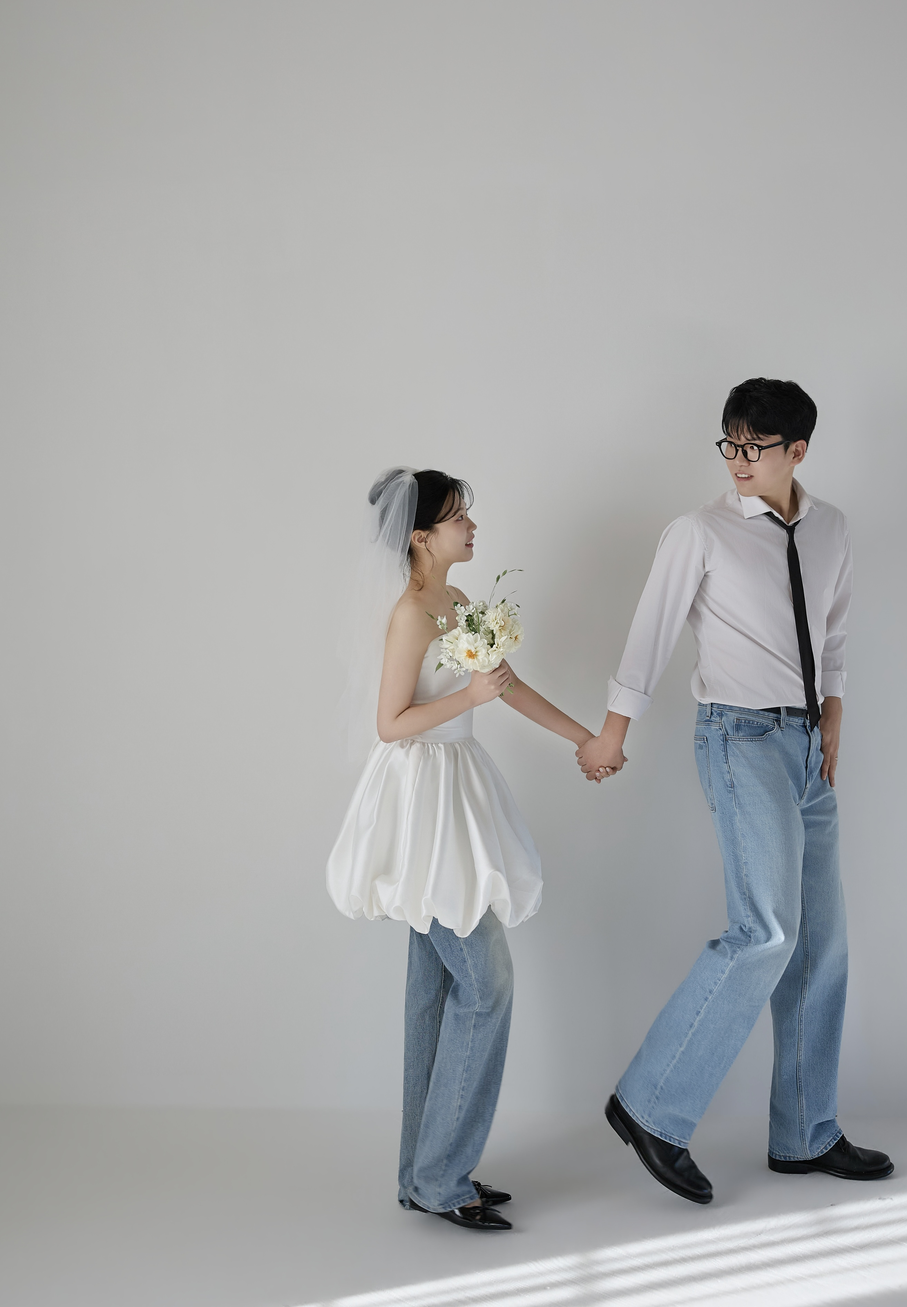
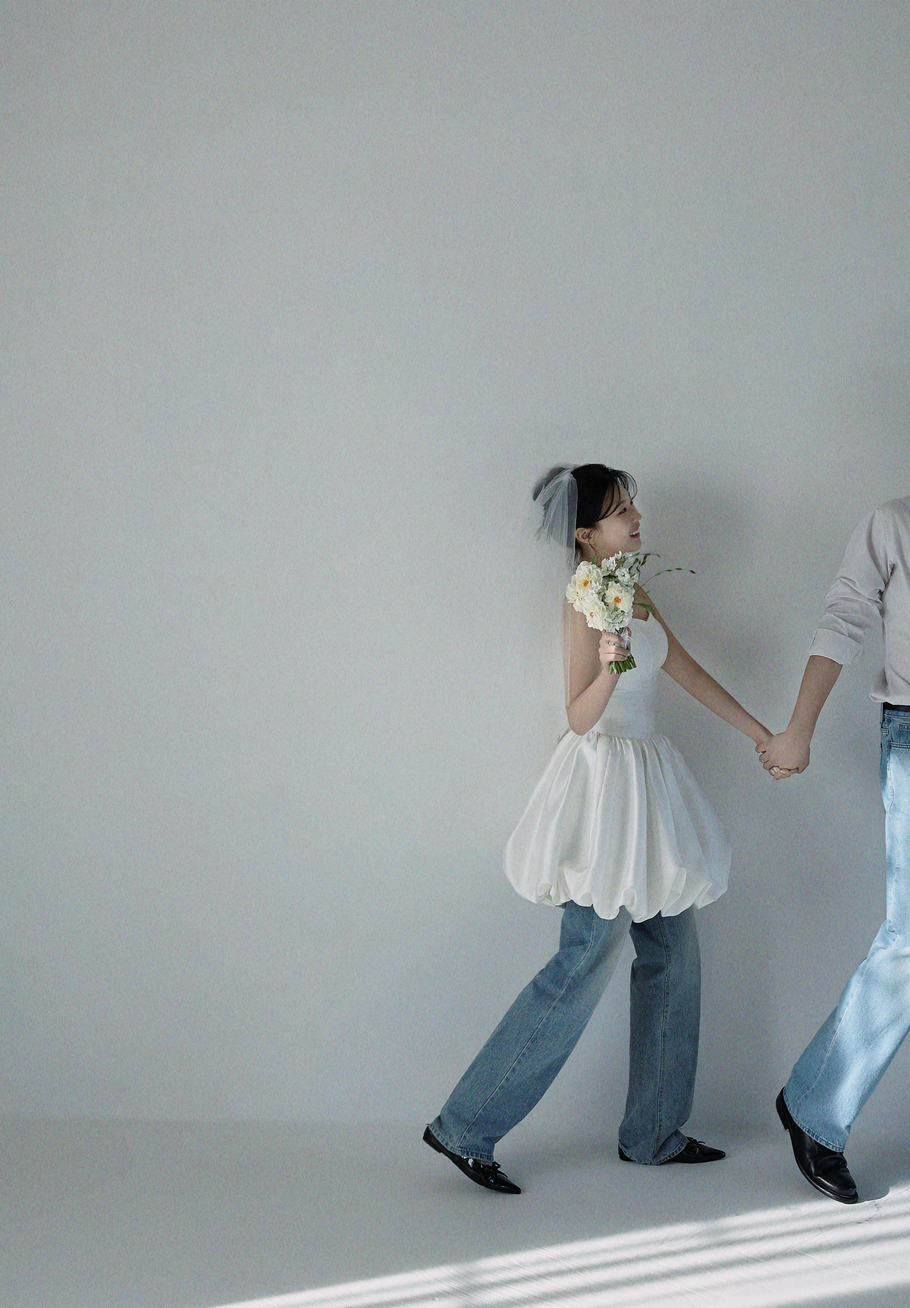
Refine wedding schedule and calendar styling

diff --git a/src/components/sections/Calendar.tsx b/src/components/sections/Calendar.tsx
@@ -10,10 +10,10 @@ export default function Calendar() {
 
   const hours = weddingDate.getHours();
   const minutes = weddingDate.getMinutes();
-  const ampm = hours >= 12 ? "오후" : "오전";
+  const timePeriod = hours >= 12 ? "낮" : "오전";
   const displayHour = hours % 12 || 12;
   const displayMinute = String(minutes).padStart(2, "0");
-  const formattedTime = `${ampm} ${displayHour}:${displayMinute}`;
+  const formattedTime = `${displayHour}:${displayMinute}`;
 
   const weekdaysKo = ["일", "월", "화", "수", "목", "금", "토"];
   const weekdayLabel = weekdaysKo[weekday];
@@ -113,7 +113,10 @@ export default function Calendar() {
               </p>
 
               <div className="mt-4 inline-flex items-center gap-2 rounded-full bg-white/90 backdrop-blur-md border border-rose-200/70 px-4 py-1.5 shadow-[0_4px_14px_rgba(244,63,94,0.08)]">
-                <span className="w-2 h-2 rounded-full bg-gradient-to-r from-sky-400 via-amber-400 to-rose-400" />
+                <span className="calendar-time-dot h-2 w-2 rounded-full" />
+                <span className="text-[15px] md:text-[16px] font-semibold text-stone-800 tracking-wide">
+                  {timePeriod}
+                </span>
                 <span className="text-[15px] md:text-[16px] font-semibold text-stone-800 tracking-wide">
                   {formattedTime}
                 </span>
@@ -156,7 +159,7 @@ export default function Calendar() {
                     className="flex justify-center items-center h-10"
                   >
                     {isWedding ? (
-                      <div className="calendar-wedding-day relative flex h-9 w-9 items-center justify-center rounded-full bg-gradient-to-br from-rose-400 via-amber-300 to-sky-400">
+                      <div className="calendar-wedding-day relative flex h-9 w-9 items-center justify-center rounded-full">
                         <span className="relative z-10 text-[14px] font-semibold text-white">
                           {date}
                         </span>

diff --git a/src/index.css b/src/index.css
@@ -10,6 +10,15 @@
     sans-serif;
 }
 
+:root {
+  --wedding-rainbow-gradient: linear-gradient(
+    135deg,
+    #67c4e3,
+    #f08fa1 55%,
+    #f4aa73
+  );
+}
+
 .section-heading-label {
   -webkit-text-stroke: 0.3px currentColor;
 }
@@ -90,7 +99,7 @@
   justify-content: center;
   border: 3px solid white;
   border-radius: 50% 50% 50% 0;
-  background: linear-gradient(135deg, #38bdf8, #fb7185 55%, #fb923c);
+  background: var(--wedding-rainbow-gradient);
   box-shadow: 0 4px 12px rgb(87 57 57 / 32%);
   color: white;
   font-family: sans-serif;
@@ -156,21 +165,30 @@
   100% {
     transform: scale(1);
     box-shadow:
-      0 4px 14px rgb(244 63 94 / 0.22),
-      0 0 0 0 rgb(251 113 133 / 0.16);
+      0 4px 12px rgb(68 46 46 / 0.16),
+      0 0 0 0 rgb(103 196 227 / 0.08);
   }
 
   50% {
     transform: scale(1.055);
     box-shadow:
-      0 5px 17px rgb(244 63 94 / 0.28),
-      0 0 0 5px rgb(251 113 133 / 0.07);
+      0 5px 15px rgb(68 46 46 / 0.2),
+      0 0 0 4px rgb(103 196 227 / 0.07),
+      0 0 0 8px rgb(244 170 115 / 0.04);
   }
 }
 
 .calendar-wedding-day {
+  border: 2px solid white;
+  background: var(--wedding-rainbow-gradient);
   animation: wedding-date-pulse 2.8s ease-in-out infinite;
   will-change: transform, box-shadow;
+}
+
+.calendar-time-dot {
+  border: 1px solid white;
+  background: var(--wedding-rainbow-gradient);
+  box-shadow: 0 2px 5px rgb(68 46 46 / 0.14);
 }
 
 @keyframes elemental-rainbow-reveal {

diff --git a/src/components/interactive/LoveTerminal.tsx b/src/components/interactive/LoveTerminal.tsx
@@ -22,7 +22,7 @@ function getScheduleText() {
   const [year, month, day] = date.split("-");
   const [hourText, minute = "00"] = time.split(":");
   const hour = Number(hourText);
-  const period = hour >= 12 ? "오후" : "오전";
+  const period = hour >= 12 ? "낮" : "오전";
   const displayHour = hour % 12 || 12;
   const weekday = new Date(`${date}T12:00:00+09:00`).toLocaleDateString(
     "ko-KR",
